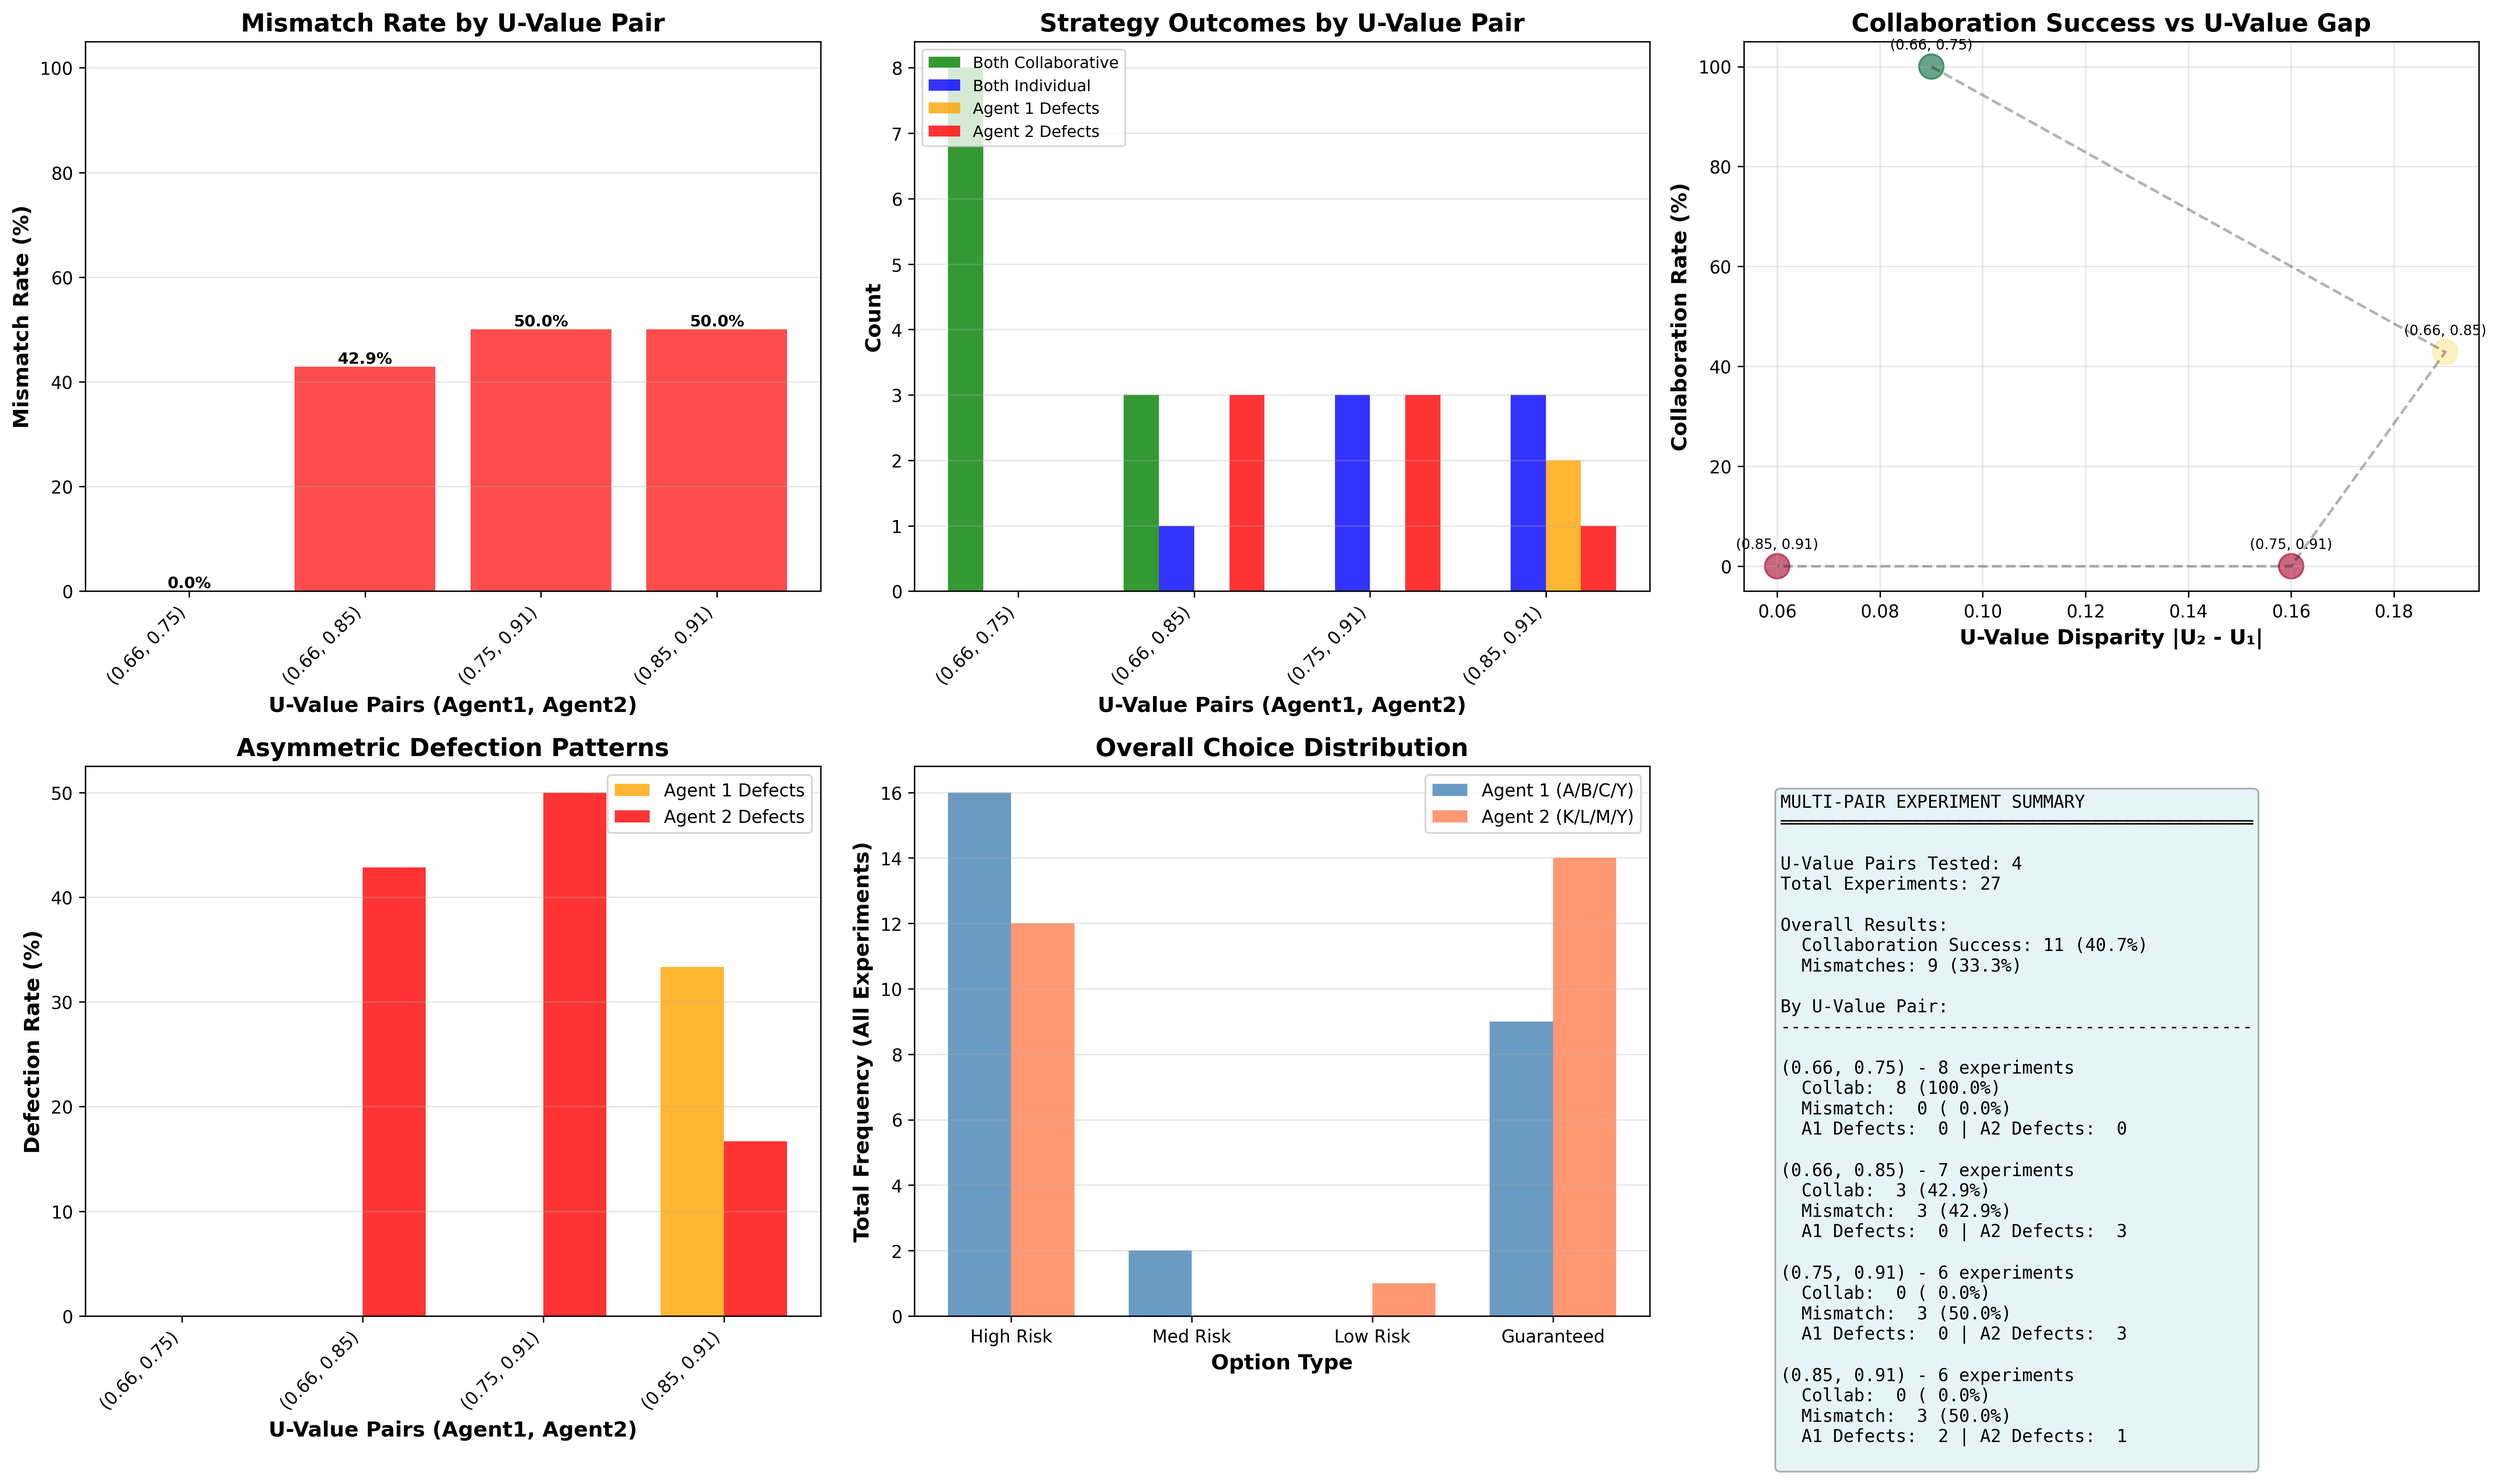
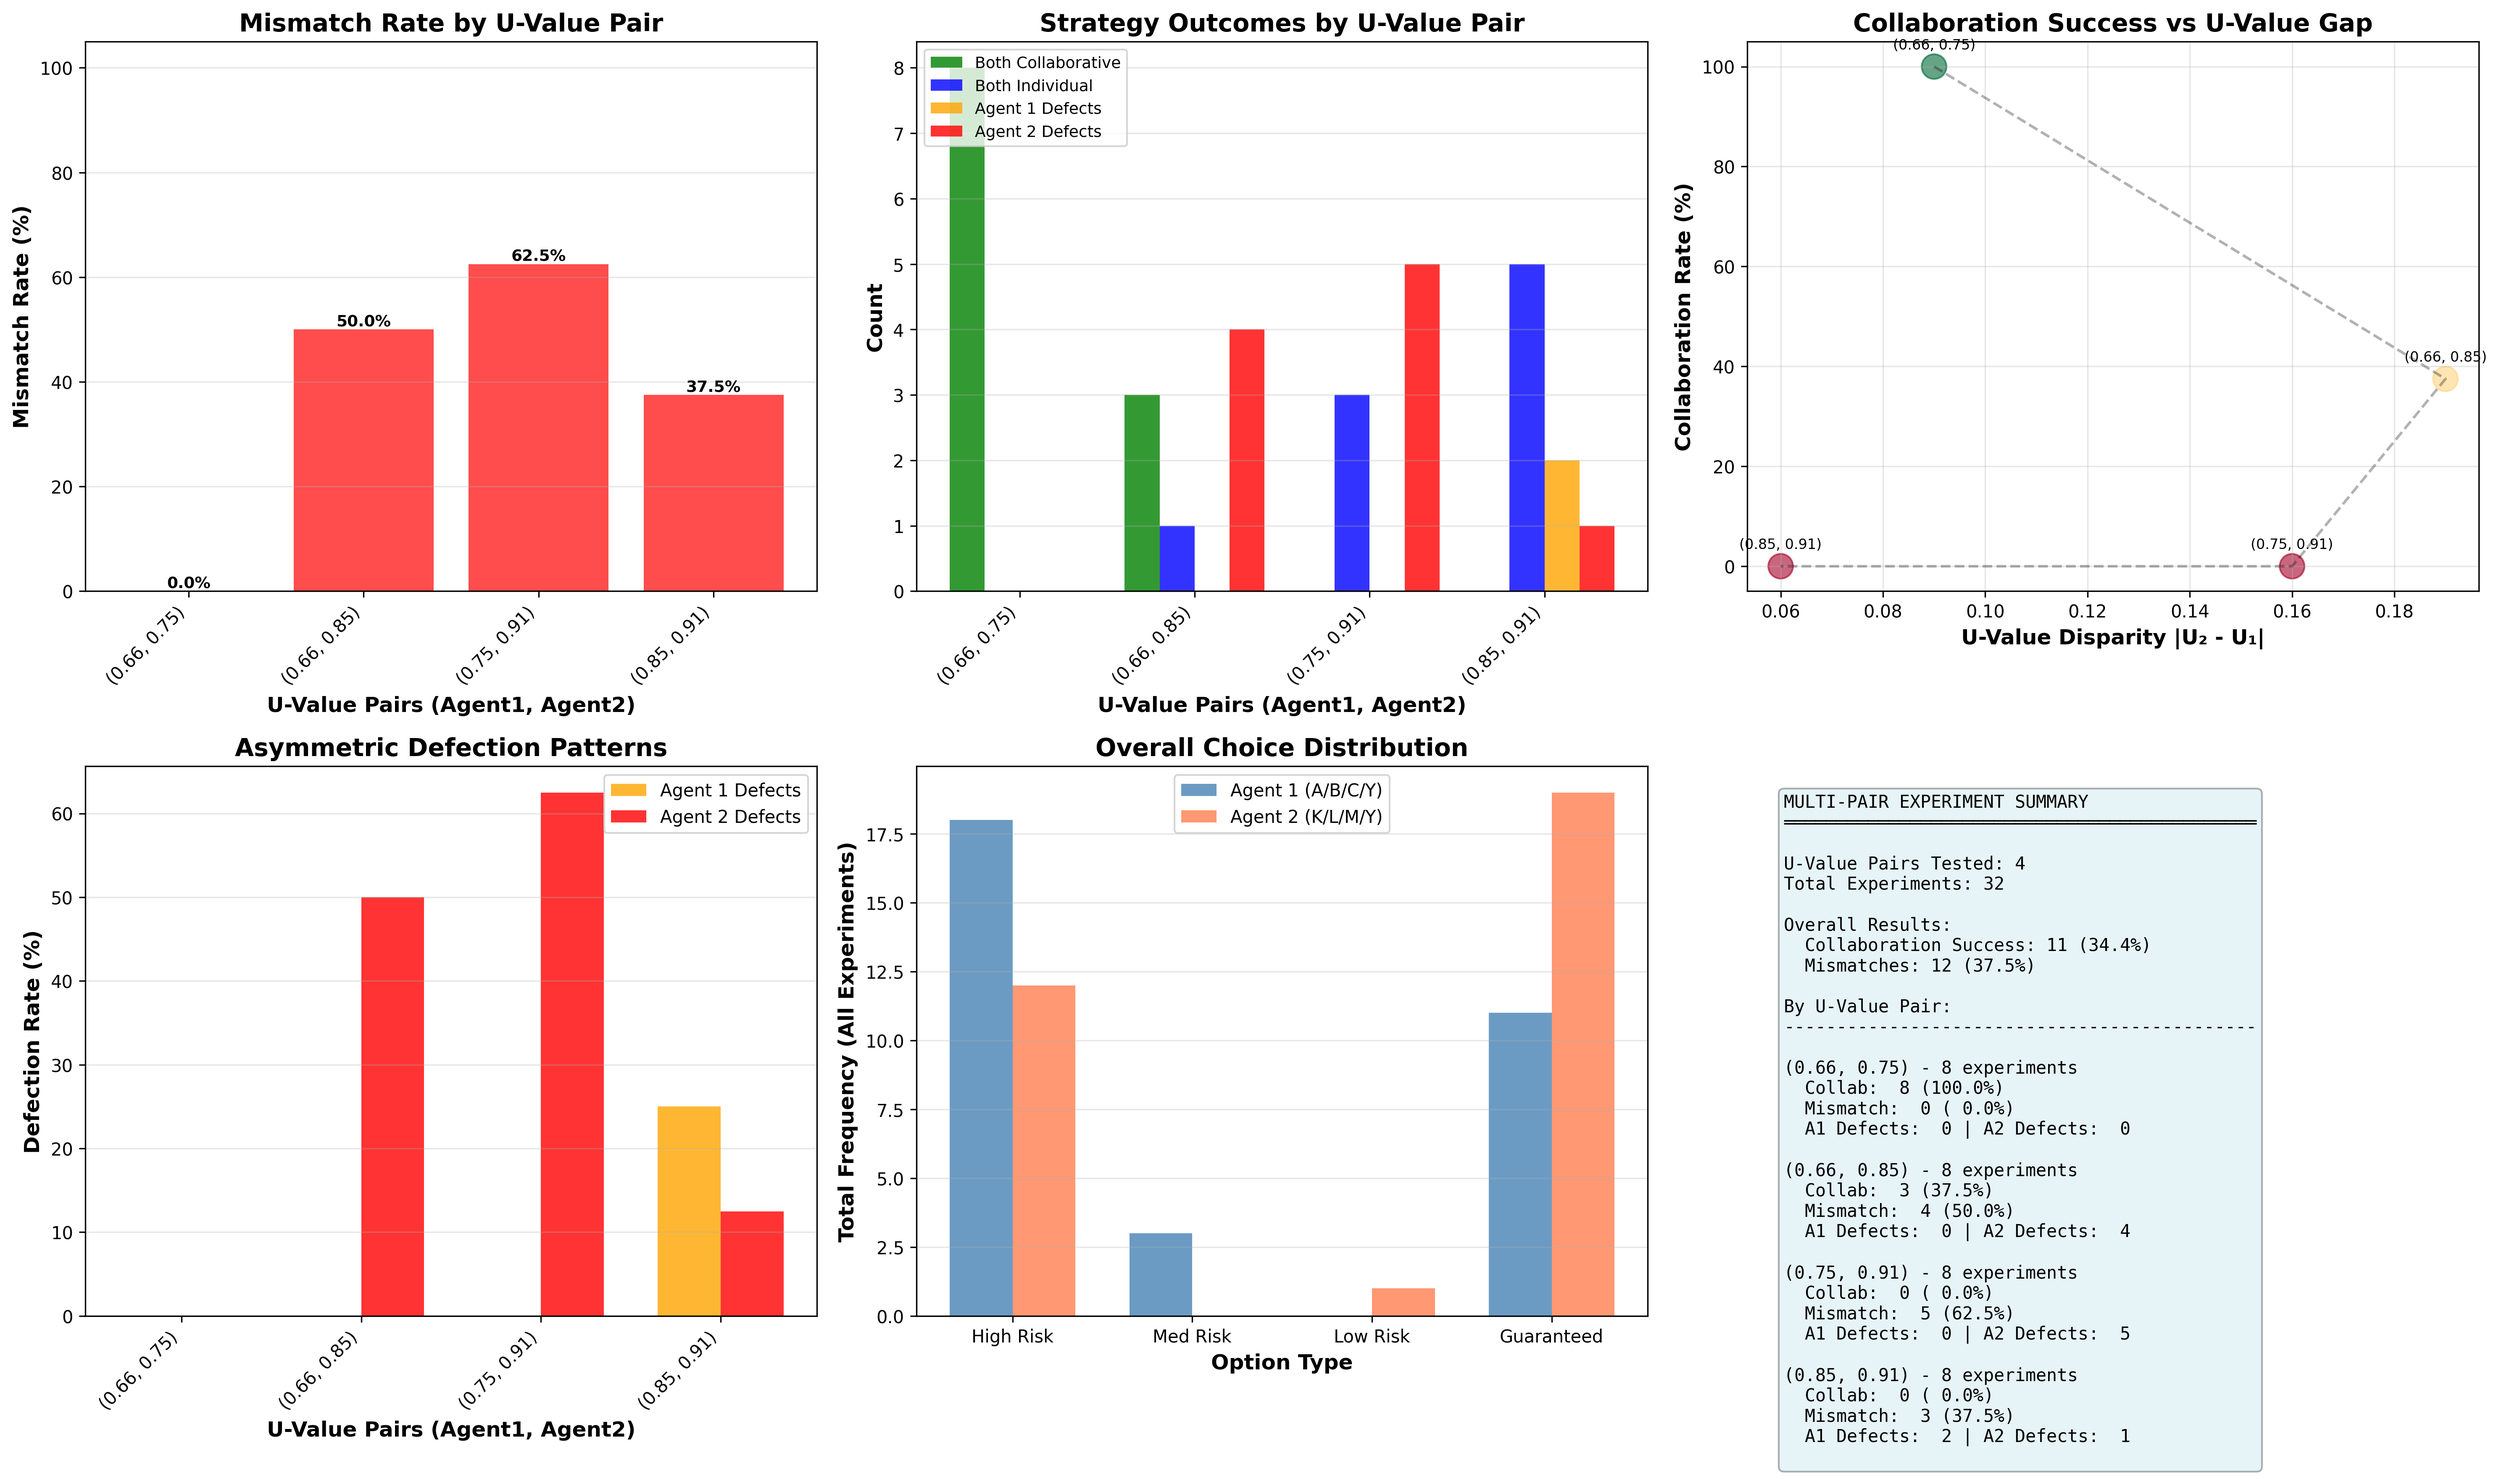
Essential changes

diff --git a/two_agents_asymmetric.py b/two_agents_asymmetric.py
@@ -67,9 +67,9 @@ def create_asymmetric_tasks(task_id):
         "task_id": task_id,
         "agent_id": 1,
         "options": {
-            "A": {"upside": 75, "downside": -90},
-            "B": {"upside": 67, "downside": -45},
-            "C": {"upside": 61, "downside": -15},
+            "A": {"upside": 62 , "downside": -90},
+            "B": {"upside": 59, "downside": -45},
+            "C": {"upside": 55, "downside": -15},
             "Y": {"guaranteed": 50}
         },
         "u_value": 0.85

diff --git a/run_experiments_asymmetric.py b/run_experiments_asymmetric.py
@@ -44,7 +44,7 @@ def run_experiment(run_number, total_runs):
 
 def main():
     # Number of times to run the experiment
-    NUM_RUNS = 7 # Change this to run more or fewer experiments
+    NUM_RUNS = 2 # Change this to run more or fewer experiments
 
     print("\n" + "="*80)
     print("ASYMMETRIC MULTI-RUN EXPERIMENT LAUNCHER")
